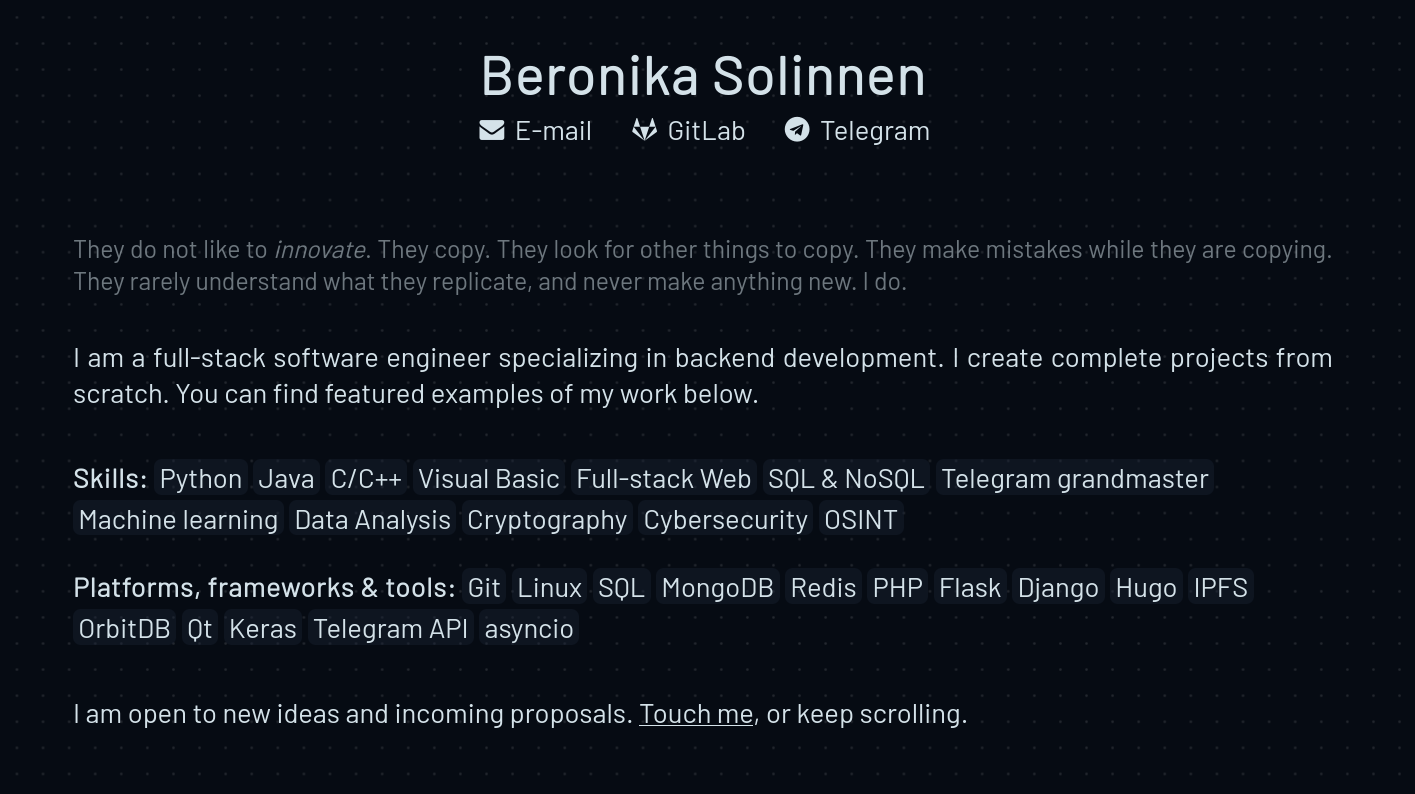
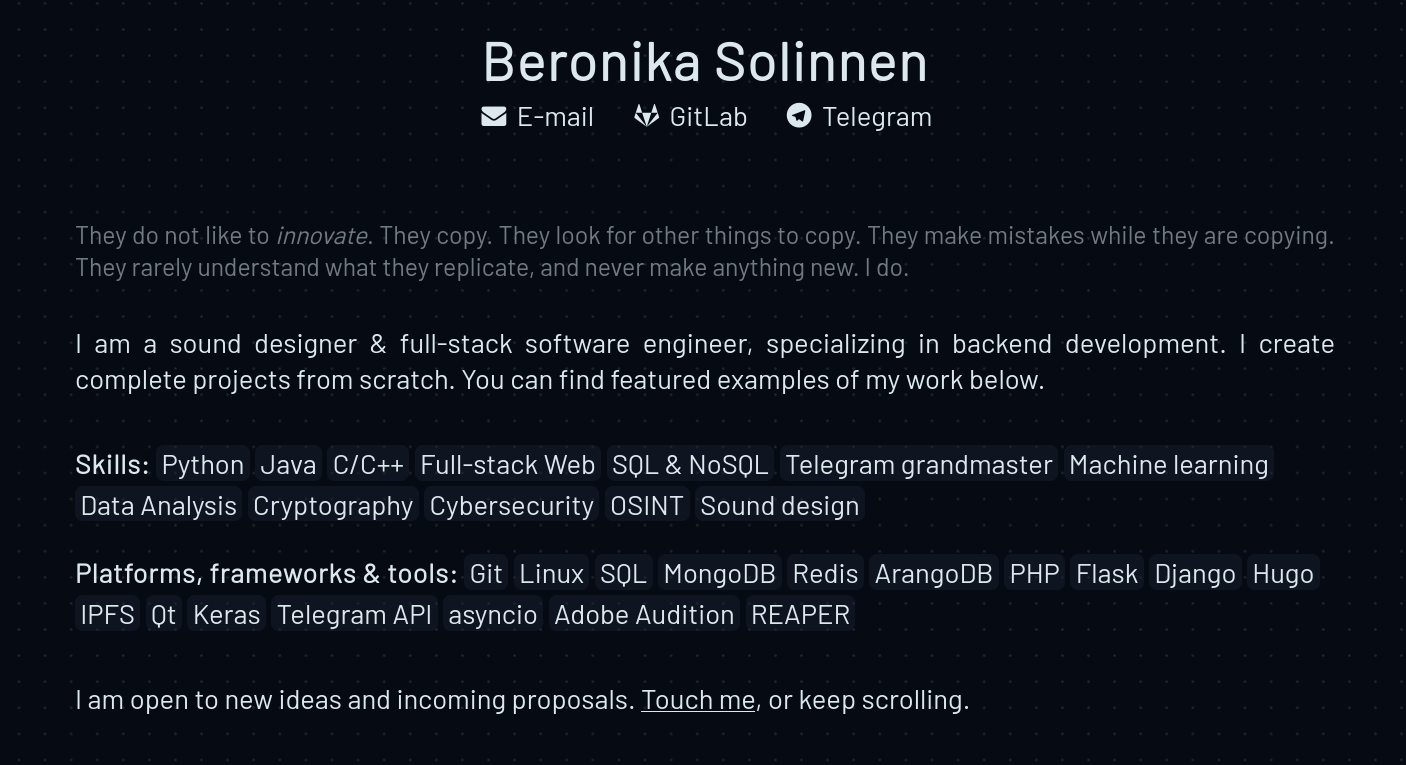
+ OpenTelegramMap

diff --git a/layouts/_default/index.html b/layouts/_default/index.html
@@ -3,7 +3,7 @@
 
   <p class="quote">They do not like to <i>innovate</i>. They copy. They look for other things to copy. They make mistakes while they are copying. They rarely understand what they replicate, and never make anything new. I do.</p>
 
-  <p>I am a full-stack software engineer specializing in backend development. I create complete projects from scratch. You can find featured examples of my work below.</p>
+  <p>I am a sound designer & full-stack software engineer, specializing in backend development. I create complete projects from scratch. You can find featured examples of my work below.</p>
 
   <p class="list narrow"><b>Skills:</b>
     <i>Python</i>
@@ -25,12 +25,12 @@
     <i>SQL</i>
     <i>MongoDB</i>
     <i>Redis</i>
+    <i>ArangoDB</i>
     <i>PHP</i>
     <i>Flask</i>
     <i>Django</i>
     <i>Hugo</i>
     <i>IPFS</i>
-    <i>OrbitDB</i>
     <i>Qt</i>
     <i>Keras</i>
     <i>Telegram API</i>
@@ -50,6 +50,13 @@
       <div class="right">
         <div class="title">Solinnen Hub</div>
         <div class="desc">All my projects put together</div>
+      </div>
+    </a>
+    <a class="item" id="OpenTelegramMap" href="https://github.com/OpenTelegramMap">
+      <div class="image"><img src="images/otm.webp" alt="Solinnen | OpenTelegramMap"></div>
+      <div class="right">
+        <div class="title">OpenTelegramMap</div>
+        <div class="desc">Telegram graph & OSINT tool</div>
       </div>
     </a>
     <a class="item" id="TulpaWikia" href="https://tulpawikia.github.io/">
